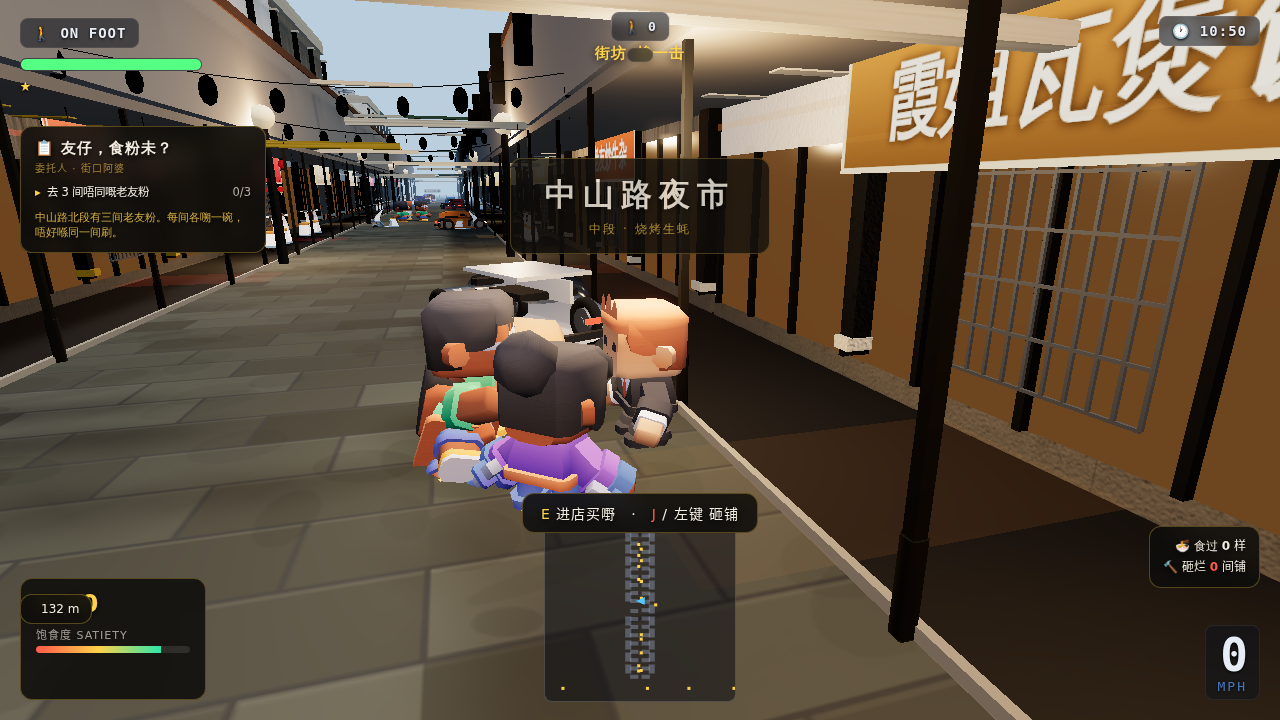
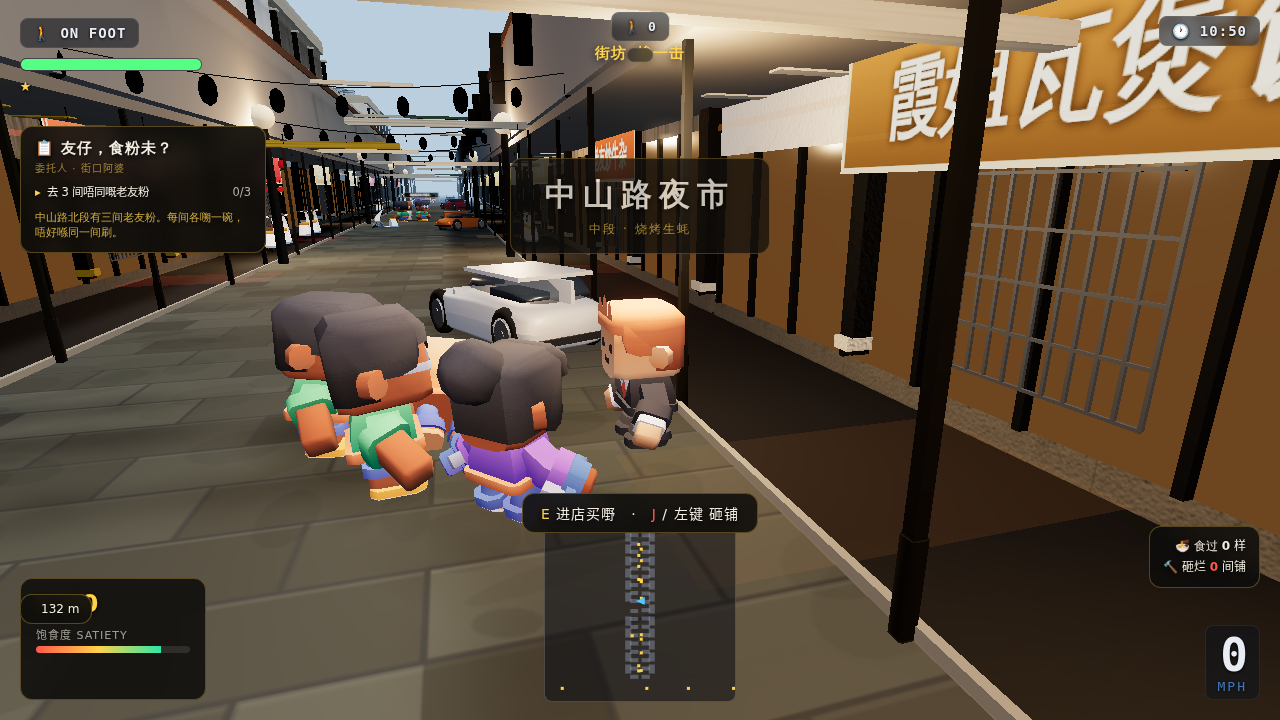
Stop culling the cars' own panels
The hulls are skinned from a ring of points around each section, and the
faces came out wound the wrong way round. Back-face culling then threw the
cars' flanks away entirely: every car on the street was a floating deck
with a lid over it and a hole where the body should be, and the
glasshouse was the worst of it — you could see straight through the cabin
to the shopfront opposite.

DoubleSide on the paint, the glass and the interior, and the cars are
cars: a body with flanks, a greenhouse with a windscreen, a roof that
meets it.

Also in this pass:

- The driver sits on the left, where the wheel is, not on the centreline
  where half of him was inside the cabin wall. A rider is 0.42 of full
  size and sits at 0.64 m, so his head is in the window and nothing of him
  is through the floor.
- The glasshouse is tall enough to hold him: the sedan's roof is at 1.55 m
  and the compact's at 1.43.
- The interior is a back seat at the back of the cabin, not a block across
  the middle of it — it was swallowing the driver's head.

tsc clean, 229 tests, build clean.

Changed region(s): [[0.1875, 0.3667, 0.5312, 0.7333], [0.3125, 0.2444, 0.375, 0.3361]]

diff --git a/src/render/vehicleBody.ts b/src/render/vehicleBody.ts
@@ -116,11 +116,11 @@ const SEDAN_SECTIONS: Section[] = [
  * top; the top of the middle sections is the roof.
  */
 const SEDAN_CABIN: Section[] = [
-  { z: 0.50, w: 0.60, y: 1.05, h: 0.10, k: 3 },
-  { z: 0.05, w: 0.76, y: 1.15, h: 0.19, k: 3 },
-  { z: -0.70, w: 0.80, y: 1.16, h: 0.18, k: 4 },
-  { z: -1.30, w: 0.76, y: 1.14, h: 0.18, k: 3 },
-  { z: -1.70, w: 0.62, y: 1.04, h: 0.09, k: 3 },
+  { z: 0.50, w: 0.60, y: 1.12, h: 0.16, k: 3 },
+  { z: 0.05, w: 0.76, y: 1.26, h: 0.29, k: 3 },
+  { z: -0.70, w: 0.80, y: 1.27, h: 0.28, k: 4 },
+  { z: -1.30, w: 0.76, y: 1.25, h: 0.28, k: 3 },
+  { z: -1.70, w: 0.62, y: 1.12, h: 0.16, k: 3 },
 ];
 
 const COMPACT_SECTIONS: Section[] = [
@@ -135,10 +135,10 @@ const COMPACT_SECTIONS: Section[] = [
 ];
 
 const COMPACT_CABIN: Section[] = [
-  { z: 0.30, w: 0.58, y: 1.00, h: 0.09, k: 3 },
-  { z: -0.10, w: 0.74, y: 1.09, h: 0.17, k: 3 },
-  { z: -0.80, w: 0.75, y: 1.10, h: 0.17, k: 4 },
-  { z: -1.40, w: 0.64, y: 1.00, h: 0.09, k: 3 },
+  { z: 0.30, w: 0.58, y: 1.05, h: 0.15, k: 3 },
+  { z: -0.10, w: 0.74, y: 1.17, h: 0.26, k: 3 },
+  { z: -0.80, w: 0.75, y: 1.18, h: 0.25, k: 4 },
+  { z: -1.40, w: 0.64, y: 1.05, h: 0.15, k: 3 },
 ];
 
 const SPORTS_SECTIONS: Section[] = [
@@ -258,7 +258,15 @@ export function makeCarBody(color: number, shapeId: BodyShape = 'sedan'): BodyMe
   // environment map to reflect there was nothing left: every car in the
   // arcade's shadow rendered as a black slab. That is the "unfinished black
   // box" the review kept pointing at — a shading bug, not a modelling one.
-  const paint = new THREE.MeshStandardMaterial({ color, roughness: 0.42, metalness: 0.16 });
+  // DoubleSide, and this is not a detail. The hulls are skinned from a ring
+  // of points around each section, and half of them came out wound the
+  // wrong way round: back-face culling then threw the car's flanks away
+  // entirely, so every car on the street was a floating deck with a lid over
+  // it and a hole where the body should be. The glasshouse was the worst of
+  // it — you could see straight through the cabin to the shopfront opposite.
+  const paint = new THREE.MeshStandardMaterial({
+    color, roughness: 0.42, metalness: 0.16, side: THREE.DoubleSide,
+  });
   // Tinted glass, and actually glass. A near-black metallic greenhouse with
   // no environment to reflect renders as a black slab — which is what made
   // every car on the street read as an unfinished box, and what made the
@@ -269,15 +277,18 @@ export function makeCarBody(color: number, shapeId: BodyShape = 'sedan'): BodyMe
   // panel floating over it — the "unfinished box" the review kept seeing.
   const glass = new THREE.MeshStandardMaterial({
     color: 0x3a4a58,
-    roughness: 0.1,
-    metalness: 0.28,
+    roughness: 0.12,
+    metalness: 0.12,
     transparent: true,
     opacity: 0.72,
+    side: THREE.DoubleSide,
   });
   // The inside of the car. Without a dark interior behind the glass you look
   // straight through the greenhouse at the shopfront opposite, and a car with
   // a hole where the cabin is reads worse than no car at all.
-  const interior = new THREE.MeshStandardMaterial({ color: 0x191b1f, roughness: 0.92, metalness: 0 });
+  const interior = new THREE.MeshStandardMaterial({
+    color: 0x191b1f, roughness: 0.92, metalness: 0, side: THREE.DoubleSide,
+  });
   const headMat = new THREE.MeshStandardMaterial({ color: 0xfff3d6, emissive: 0xffe6b0, emissiveIntensity: 2.4 });
   const tailMat = new THREE.MeshStandardMaterial({ color: 0x4a0d10, emissive: 0xff2020, emissiveIntensity: 1.8 });
   const chrome = new THREE.MeshStandardMaterial({ color: 0xc4c8cc, roughness: 0.3, metalness: 0.85 });
@@ -337,13 +348,15 @@ export function makeCarBody(color: number, shapeId: BodyShape = 'sedan'): BodyMe
   const cabinLen = zFront - zBack;
   // Just the seat backs, low in the cabin. A full-height black block behind
   // the glass reads as a crate in the car rather than as seats.
-  const seatTop = beltY + 0.13;
+  // The back seat, low and at the back of the cabin. A block of interior
+  // across the middle of the glasshouse swallowed the driver's head.
+  const seatTop = beltY + 0.1;
   put(
-    new THREE.BoxGeometry(cabinW * 1.45, seatTop - beltY, cabinLen * 0.5),
+    new THREE.BoxGeometry(cabinW * 1.45, seatTop - beltY, cabinLen * 0.34),
     interior,
-    xf(0, (beltY + seatTop) / 2, cabinMidZ - cabinLen * 0.12),
+    xf(0, (beltY + seatTop) / 2, cabinMidZ - cabinLen * 0.24),
   );
-  put(new THREE.BoxGeometry(cabinW * 1.45, 0.12, 0.26), interior, xf(0, beltY + 0.16, zFront - 0.24));
+  put(new THREE.BoxGeometry(cabinW * 1.45, 0.1, 0.24), interior, xf(0, beltY + 0.14, zFront - 0.22));
 
   // Lights, and the wing mirrors.
   for (const sx of [-1, 1]) {

diff --git a/src/main.ts b/src/main.ts
@@ -458,8 +458,8 @@ const MAX_HEALTH = 100;
  * So a driver is scaled down to something a seat can hold, and dropped so
  * the hips land on the cushion.
  */
-const RIDER_SCALE = 0.55;
-const SEAT_Y = 0.26;
+const RIDER_SCALE = 0.42;
+const SEAT_Y = 0.64;
 const HIT_SPEED = 3; // m/s a car must exceed to injure a pedestrian
 const DAMAGE_PER_SPEED = 5; // health lost per m/s of impact
 const KNOCKBACK = 1.6;
@@ -1002,7 +1002,18 @@ function render(alpha: number, frameDt: number): void {
     // The seat is behind the middle of the car, and the cabin's centre is
     // further back still: at 0.35 m the rider's legs reached forward over
     // the bonnet instead of under the dashboard.
-    avatar.position.set(ridingPose.x - fx * 0.62, SEAT_Y, ridingPose.z - fz * 0.62);
+    //
+    // And a driver sits on one side, not on the centre line. China drives on
+    // the left, so the wheel and the seat are on the car's left; on the
+    // centreline the rider was half inside the cabin wall and you could not
+    // see who was driving.
+    const rx = -fz;
+    const rz = fx;
+    avatar.position.set(
+      ridingPose.x - fx * 0.62 - rx * 0.3,
+      SEAT_Y,
+      ridingPose.z - fz * 0.62 - rz * 0.3,
+    );
     avatar.rotation.y = ridingPose.heading;
     avatar.scale.setScalar(RIDER_SCALE);
   } else {
